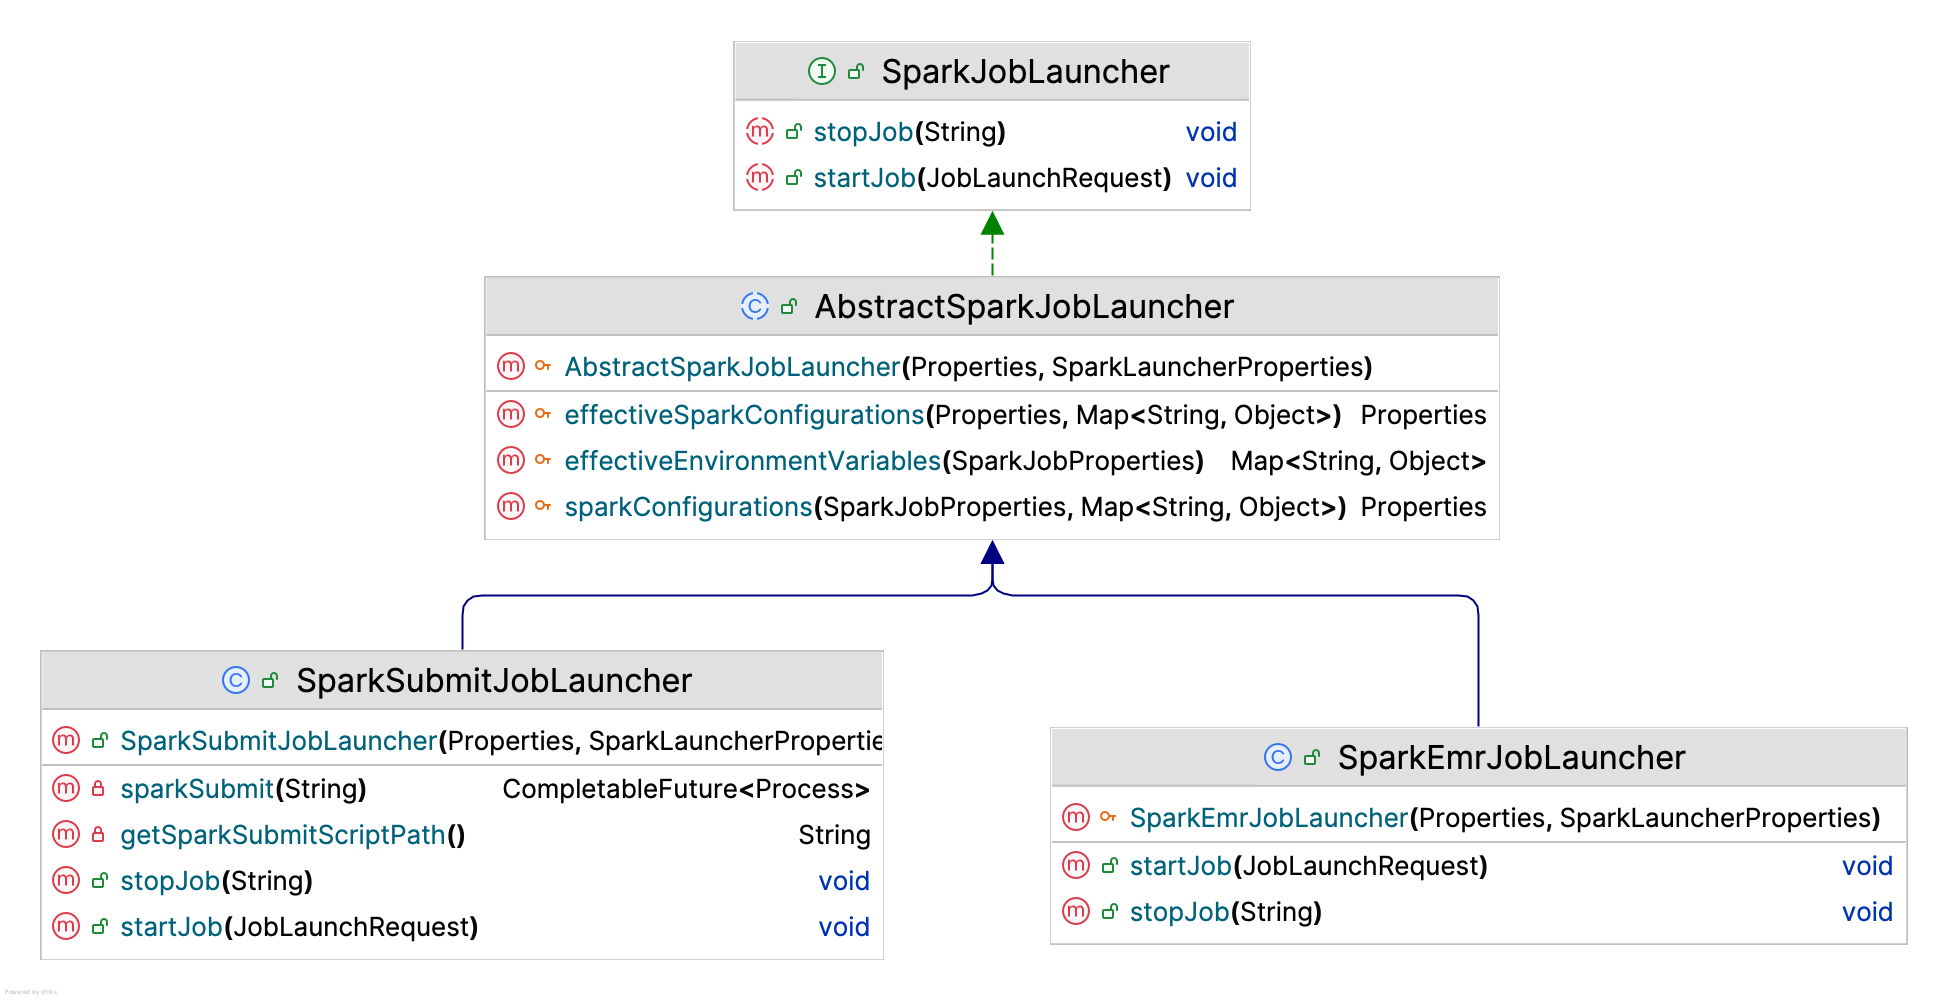
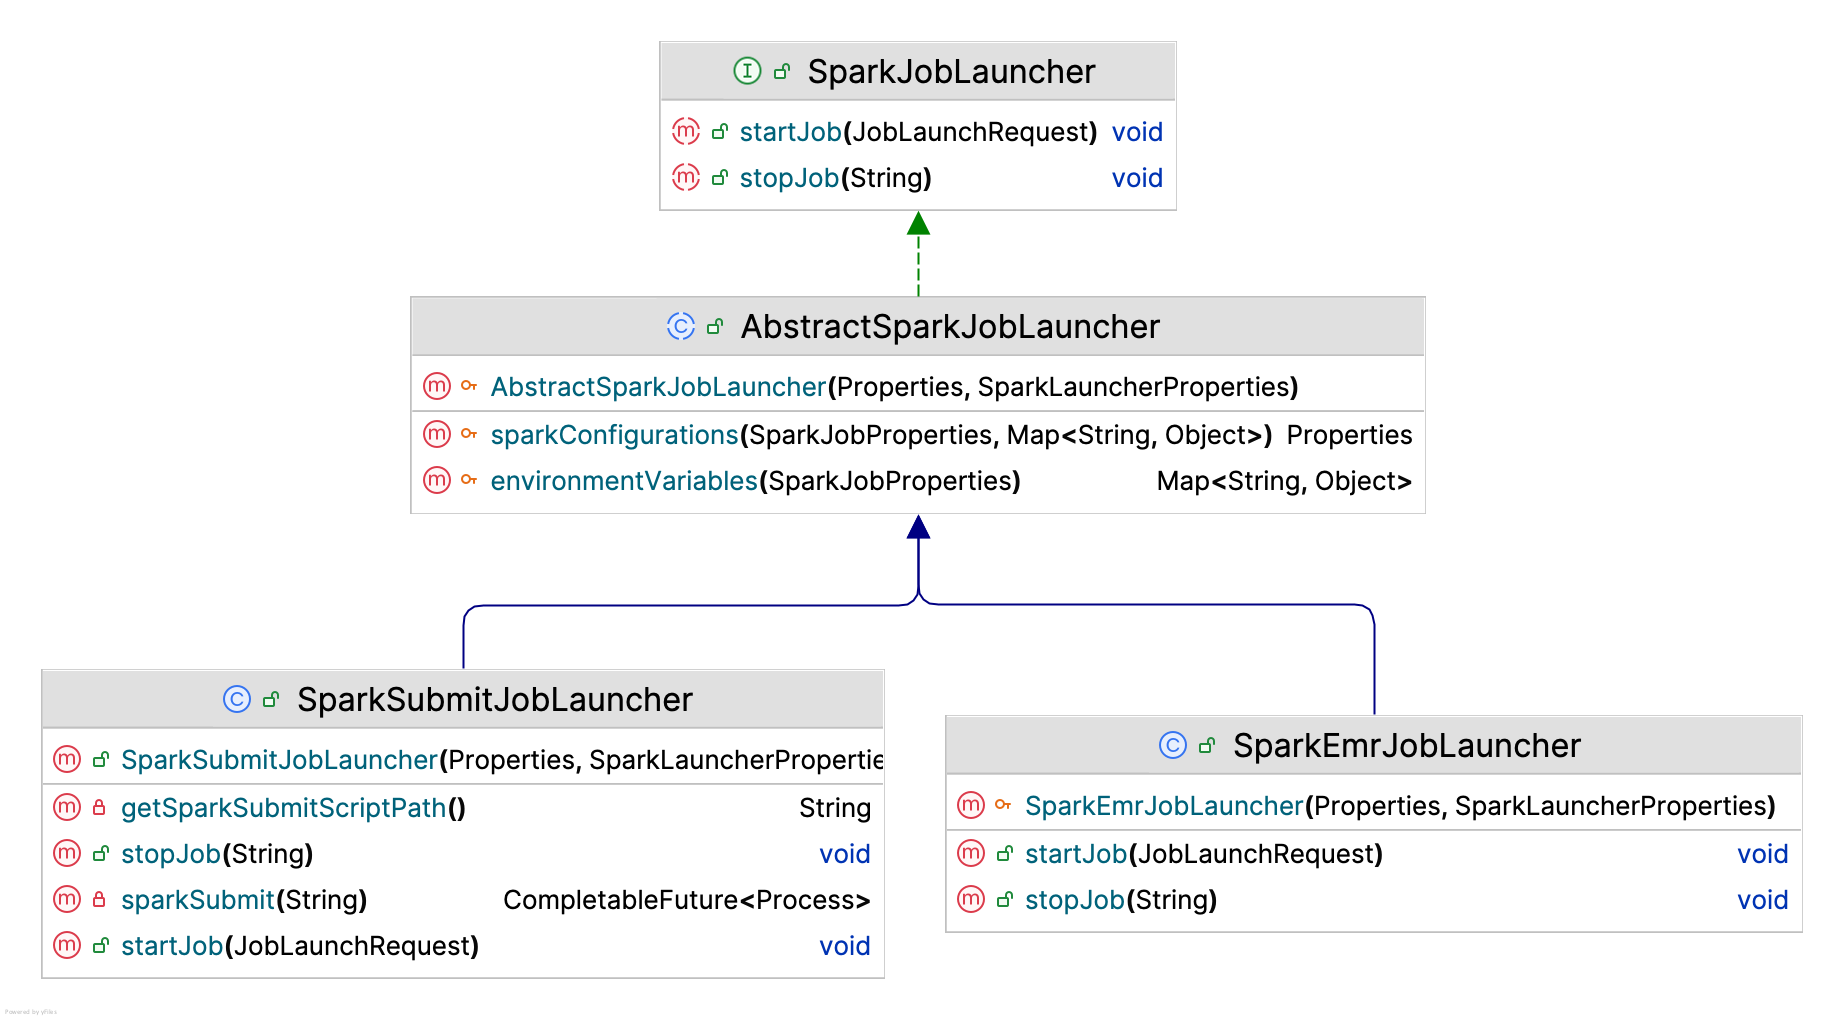
README updated

Changed region(s): [[0.0, 0.031, 0.9892, 0.961]]

diff --git a/spark-job-service/src/main/java/com/ksoot/spark/launcher/AbstractSparkJobLauncher.java b/spark-job-service/src/main/java/com/ksoot/spark/launcher/AbstractSparkJobLauncher.java
@@ -28,12 +28,15 @@ public abstract class AbstractSparkJobLauncher implements SparkJobLauncher {
   protected Properties sparkConfigurations(
       final SparkJobProperties sparkJobProperties,
       final Map<String, Object> sparkRuntimeJobSpecificProperties) {
-    Properties confProperties =
-        this.effectiveSparkConfigurations(
-            sparkJobProperties.getSparkConfig(), sparkRuntimeJobSpecificProperties);
+    final Properties sparkJobSpecificProperties = sparkJobProperties.getSparkConfig();
+    final Properties confProperties = new Properties();
+    // Overriding properties with low precedence by that with high precedence.
+    confProperties.putAll(this.sparkProperties);
+    confProperties.putAll(sparkJobSpecificProperties);
+    confProperties.putAll(sparkRuntimeJobSpecificProperties);
 
     if (!confProperties.containsKey(DEPLOY_MODE)) {
-      log.warn(DEPLOY_MODE + " not specified, falling back to: " + DEPLOY_MODE_CLIENT);
+      log.info(DEPLOY_MODE + " not specified, falling back to: " + DEPLOY_MODE_CLIENT);
       confProperties.putIfAbsent(DEPLOY_MODE, DEPLOY_MODE_CLIENT);
     }
     return confProperties.entrySet().stream()
@@ -47,21 +50,7 @@ public abstract class AbstractSparkJobLauncher implements SparkJobLauncher {
                 Properties::new));
   }
 
-  // Merge common properties with job-specific properties, giving precedence to job-specific
-  // properties
-  protected Properties effectiveSparkConfigurations(
-      final Properties sparkJobSpecificProperties,
-      final Map<String, Object> sparkRuntimeJobSpecificProperties) {
-    final Properties confProperties = new Properties();
-    // Overriding properties with low precedence by that with high precedence.
-    confProperties.putAll(this.sparkProperties);
-    confProperties.putAll(sparkJobSpecificProperties);
-    confProperties.putAll(sparkRuntimeJobSpecificProperties);
-    return confProperties;
-  }
-
-  protected Map<String, Object> effectiveEnvironmentVariables(
-      final SparkJobProperties sparkJobProperties) {
+  protected Map<String, Object> environmentVariables(final SparkJobProperties sparkJobProperties) {
     Map<String, Object> mergedEnvVars = new LinkedHashMap<>();
     mergedEnvVars.putAll(this.sparkLauncherProperties.getEnv());
     mergedEnvVars.putAll(sparkJobProperties.getEnv());

diff --git a/spark-job-service/src/main/java/com/ksoot/spark/launcher/SparkSubmitJobLauncher.java b/spark-job-service/src/main/java/com/ksoot/spark/launcher/SparkSubmitJobLauncher.java
@@ -60,7 +60,7 @@ public class SparkSubmitJobLauncher extends AbstractSparkJobLauncher {
     final Properties sparkConfigurations =
         this.sparkConfigurations(sparkJobProperties, jobLaunchRequest.getSparkConfigs());
 
-    final Map<String, Object> envVars = this.effectiveEnvironmentVariables(sparkJobProperties);
+    final Map<String, Object> envVars = this.environmentVariables(sparkJobProperties);
 
     final Map<String, String> jobArgs = new LinkedHashMap<>(jobLaunchRequest.jobArgs());
     jobArgs.put(CORRELATION_ID, jobLaunchRequest.getCorrelationId());
